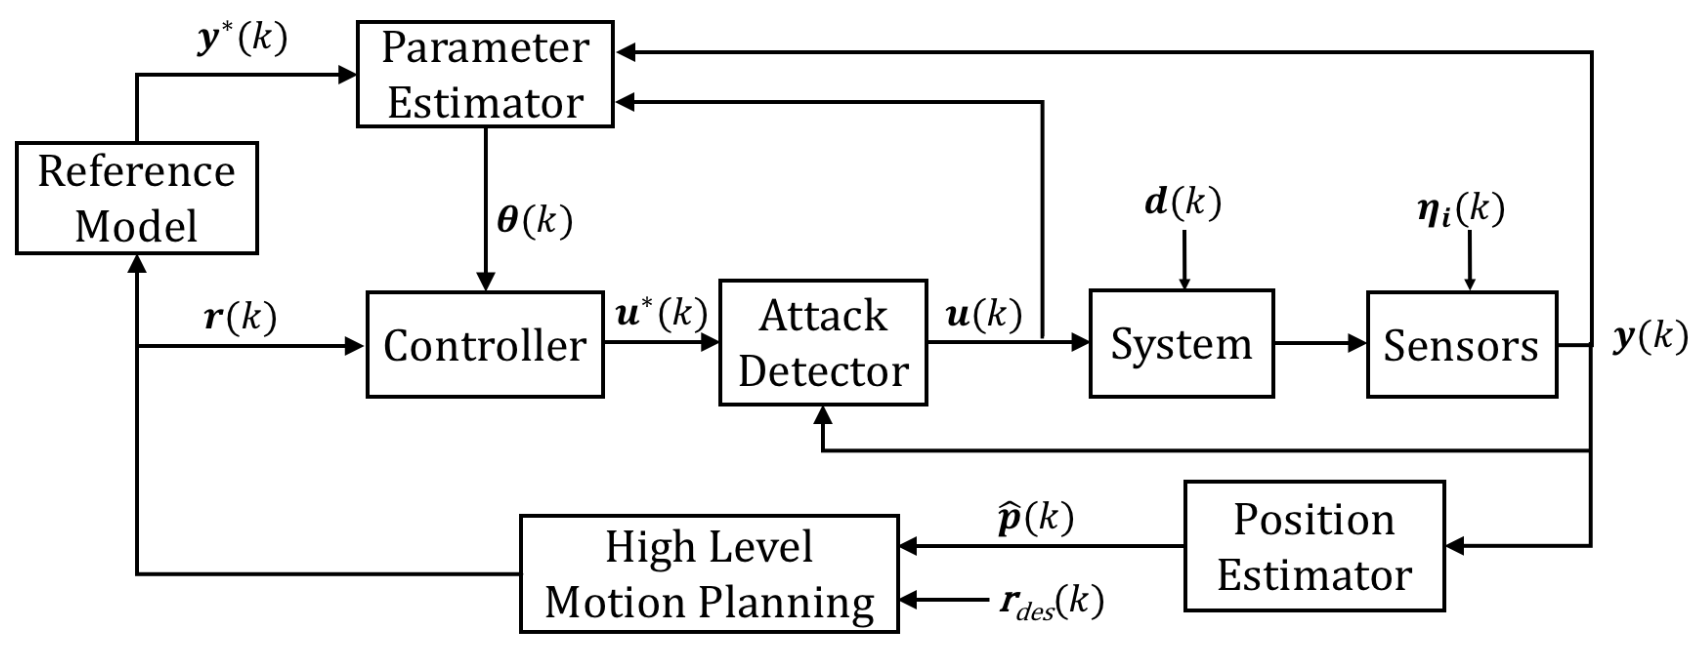
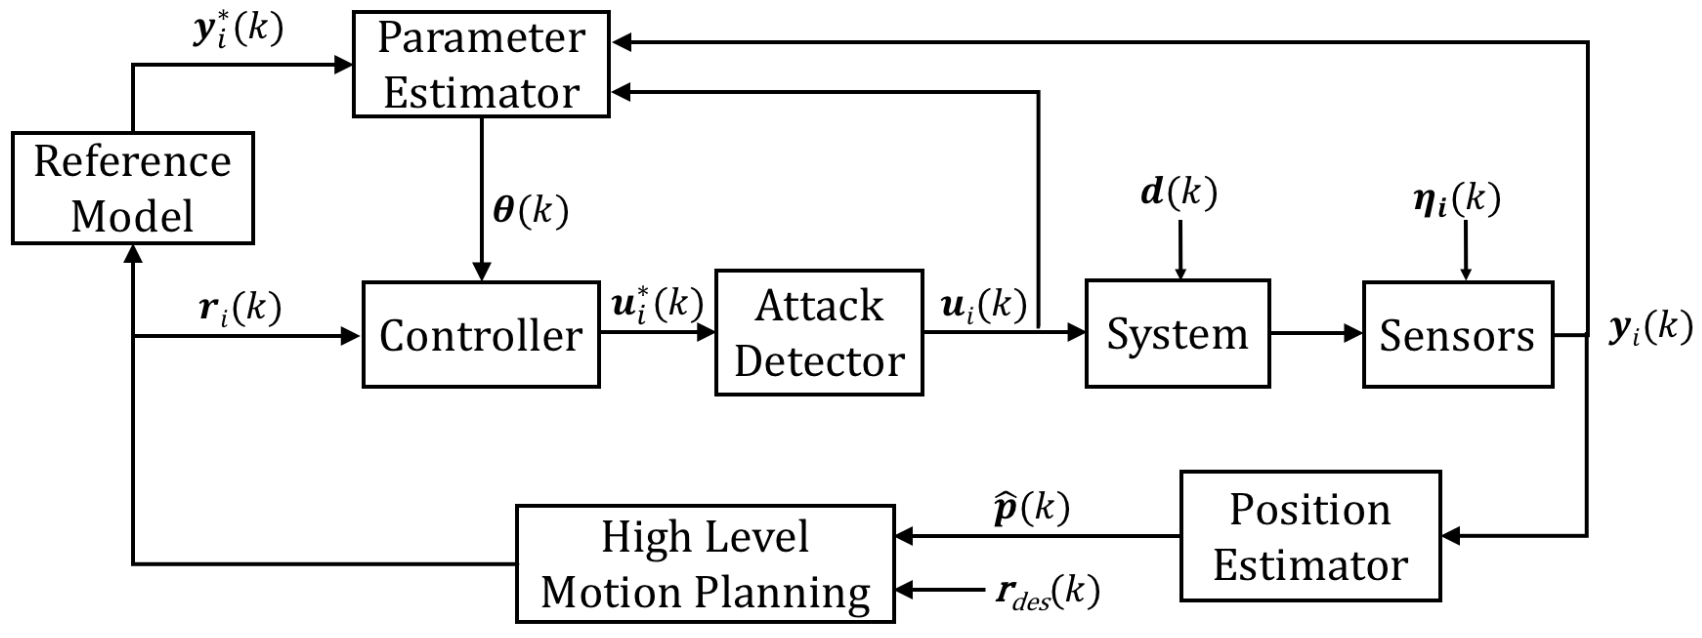
Updates from ShareLaTeX

diff --git a/Approach2.tex b/Approach2.tex
@@ -42,7 +42,7 @@ This remains true with a changing reference signal $r_i(k)$, changing dynamics, 
 \vspace{1pt}
 \centering
 \includegraphics[width=0.48\textwidth]{con_and_det.png}
-\caption{Architecture of the detection scheme within the adaptive controlled system. Representing  the $s$ number of available measurement sensors for that output.}
+\caption{Architecture of the detection scheme within the adaptive controlled system. Representing  the $s$ number of available measurements, each of their adaptive subsystems generate a temporary input to be sent to the attack detector. From there, the detector removes measurement subsystems that are compromised.}
 \label{fig:det_arch}
 \end{figure}
 
@@ -305,7 +305,7 @@ where $i=1,2,\dots,N-1$ and the most recent position estimate at time instant $k
 \vspace{1pt}
 \centering
 \includegraphics[width=0.48\textwidth]{pseudo_static.png}
-\caption{Translation of the original position estimates $\hat{\bm{p}}(k)$ to a pseudo-static case $\hat{\bm{p}}^*(k)$ as if all the position estimates were sampled from the vehicle at the current time $k$.}
+\caption{Translation of the original position estimates $\hat{\bm{p}}$ to a pseudo-static case $\hat{\bm{p}}^*$ as if all the position estimates were sampled from the vehicle at the current time interval $k$.}
 \label{fig:pseudo_static}
 \end{figure}
 
